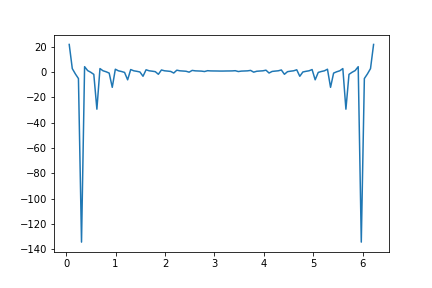
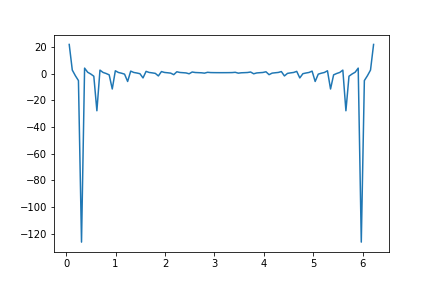
local_kinetic_energy
local_kinetic_energy gives correct result on test samples

diff --git a/BdG_on_graph.py b/BdG_on_graph.py
@@ -12,6 +12,7 @@ from numba import jit
 "Class for initial one-particle lattice and corresponding hamiltonian"
 class Lattice():
     def __init__(self,hopping,mode, size ,fractal_iter=0, alpha=0, beta=0, dis_array=None, del_array=None, pbc=False):
+
         if mode=="triangle":
             self.neigh=[(1,0),(-1,0),(0,1),(0,-1),(1,1),(-1,-1)]
         if mode=="square":
@@ -172,7 +173,7 @@ class Lattice():
         print("l_min", l_min)
         for n_site in range(N):
             #print("n_site, n_coord", n_site, self.sites[n_site])
-            #site_coord=
+
             x=self.sites[n_site][0]
             y=self.sites[n_site][1]
             #print("site", x,y)
@@ -286,10 +287,11 @@ class BdG():
         #     print(u[:,n], energies[n])
             
         print("Kinetic energy is being calculated")
-    
+        # print("one particle H", self.lattice_H)
         for i in range(self.N): #cycle over indices
-            #print("site", i)
+            # print("site", i)
             for n in range(self.N):
+                # print("energy", round(energies[n],3))
                 coord=self.lattice_sample.sites[i]
                 if self.pbc:
                     coord_x= tuple((a + b)%self.size for a, b in zip(coord, (1,0)))
@@ -299,8 +301,11 @@ class BdG():
                 if coord_x in site_set:
                     i_x=self.lattice_sample.sites.index(coord_x)
                     #print(i, i_x)
-                    K[i]=2*self.hopping*((np.conj(u[i_x,n])*u[i,n]+np.conj(u[i,n])*u[i_x,n])*self.F(energies[n])
-                                         +(np.conj(v[i_x,n])*v[i,n]+np.conj(v[i,n])*v[i_x,n])*(self.F(-energies[n])))
+                    # print("u", np.round(u[:,n],3) , round(u[i,n],3), round(u[i_x, n],3))
+                    # print("v", np.round(v[:,n],3) , round(v[i,n],3), round(v[i_x, n],3))
+                    # print("u_u", np.round(2*u[i_x,n]*u[i,n], 3), "v_v", np.round(2*v[i_x,n]*v[i,n], 3))
+                    K[i]+=2*self.hopping*((np.conj(u[i_x,n])*u[i,n]+np.conj(u[i,n])*u[i_x,n])*self.F(energies[n])
+                                         +(np.conj(v[i_x,n])*v[i,n]+np.conj(v[i,n])*v[i_x,n])*self.F(-energies[n]))
         #K=K/N
         return K
 
@@ -410,11 +415,6 @@ def uniform_2D_correlation_function(size, T, Delta=0, state='normal'):
     q_y=np.linspace(2*np.pi/N_qy, 2*np.pi*(1-1/N_qy), N_qy)
     Lambda=np.zeros(N_qy)
     
-    # #energy test for uniform square with pbc
-    # for k_x in k:
-    #     for k_y in k:
-    #         print(k_x, k_y, -2*(np.cos(k_x)+np.cos(k_y)))
-    
     if state=='normal':
         
         for i in range(N_qy):
@@ -430,11 +430,13 @@ def uniform_2D_correlation_function(size, T, Delta=0, state='normal'):
         K_withderivative=0
         for k_x in k:
             for k_y in k:
+                
                 eps=-2*(np.cos(k_x)+np.cos(k_y))
+                # print('kx, ky, eps', np.round(k_x/np.pi, 2), np.round(k_y/np.pi, 2), np.round(eps,2))
                 K_simple+=4*np.cos(k_x)*F(eps,T)/(size**2)
                 K_withderivative+=8*(np.sin(k_x)**2)/(4*T*(size**2)*(np.cosh(eps/(2*T))**2))
 
-        print("analytic kinetic energy", K_simple, K_withderivative, "from limit", Lambda[0])
+        print("analytic kinetic energy", K_simple, "\n analytical limit", K_withderivative, "\n numerical limit", Lambda[0])
         
         return q_y, Lambda
     
@@ -505,18 +507,20 @@ def main():
 
     mode="square"
     t=1
-    size=40
-    T=1/2
-    V=0.0
+    size=21
+    T=1/50
+    V=4.0
     mu=0
     
-    # lattice_sample = Lattice(t, mode, size, fractal_iter=0, pbc=True)
-    # BdG_sample=BdG(lattice_sample, V, T, mu)
-    # time1=time.time()
-    # K=BdG_sample.local_kinetic_energy()
-    #print("K", K)
-    # print("mean K", np.mean(K))
-    # time2=time.time()
+    lattice_sample = Lattice(t, mode, size, fractal_iter=0, pbc=True)
+    BdG_sample=BdG(lattice_sample, V, T, mu)
+    BdG_sample.BdG_cycle()
+    time1=time.time()
+    K=BdG_sample.local_kinetic_energy()
+    # print("K", K)
+    print("mean K", np.mean(K))
+    time2=time.time()
+    #print("spectra", BdG_sample.spectra)
     # print("kinetic energy time", time2-time1)
     # q_y=np.linspace(2*np.pi/size, 2*np.pi*(1-1/size), 100)
     # Lambda=np.mean(BdG_sample.twopoint_correlator(q_y), axis=1)
@@ -526,20 +530,21 @@ def main():
     # BdG_sample.BdG_cycle()
     # print(BdG_sample.spectra)
     # spectra, vectors = eigh(lattice_sample.hamiltonian)
-    # print(spectra)
+    #print(spectra)
     
     
-    q_y, Lambda=uniform_2D_correlation_function(size, T, Delta=0, state='normal')
-    print("zero limit", Lambda[0])
-    plt.plot(q_y, Lambda)
-    plt.savefig("lambda_test_normal.png")
-    plt.close()
+    # q_y, Lambda=uniform_2D_correlation_function(size, T, Delta=0, state='normal')
+    # # print("zero limit", Lambda[0])
+    # plt.plot(q_y, Lambda)
+    # plt.savefig("lambda_test_normal.png")
+    # plt.close()
     
-    q_y, Lambda=uniform_2D_correlation_function(size, T, Delta=0.01, state='super')
-    print("zero limit", Lambda[0])
-    plt.plot(q_y, Lambda)
-    plt.savefig("lambda_test_super.png")
-    plt.close()
+ 
+    # q_y, Lambda=uniform_2D_correlation_function(size, T, Delta=0.0, state='super')
+    # print("zero limit", Lambda[0])
+    # plt.plot(q_y, Lambda)
+    # plt.savefig("lambda_test_super.png")
+    # plt.close()
     
     #n=BdG_sample.charge_density()
     #print("charge density", np.sum(n)/len(lattice_sample.sites))
